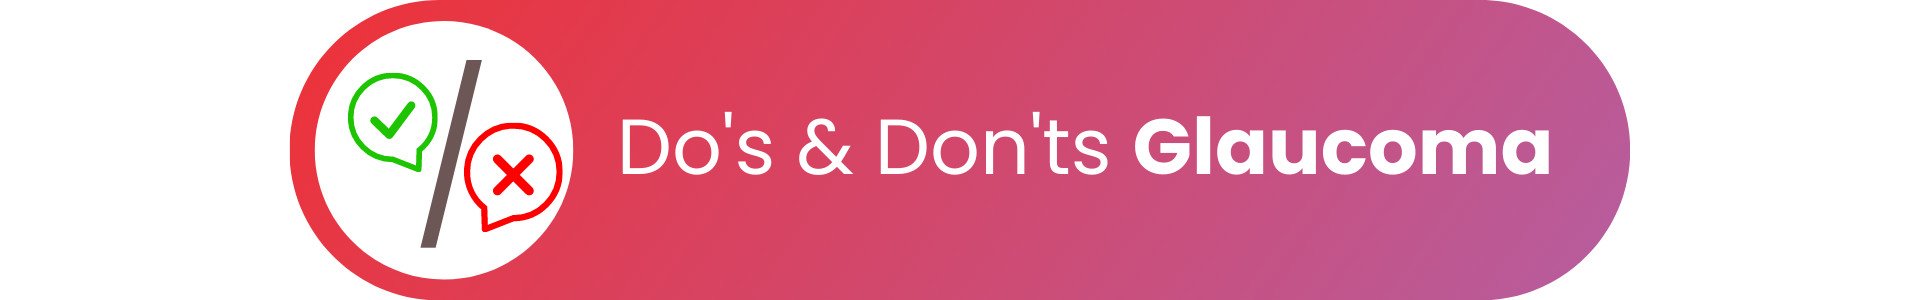
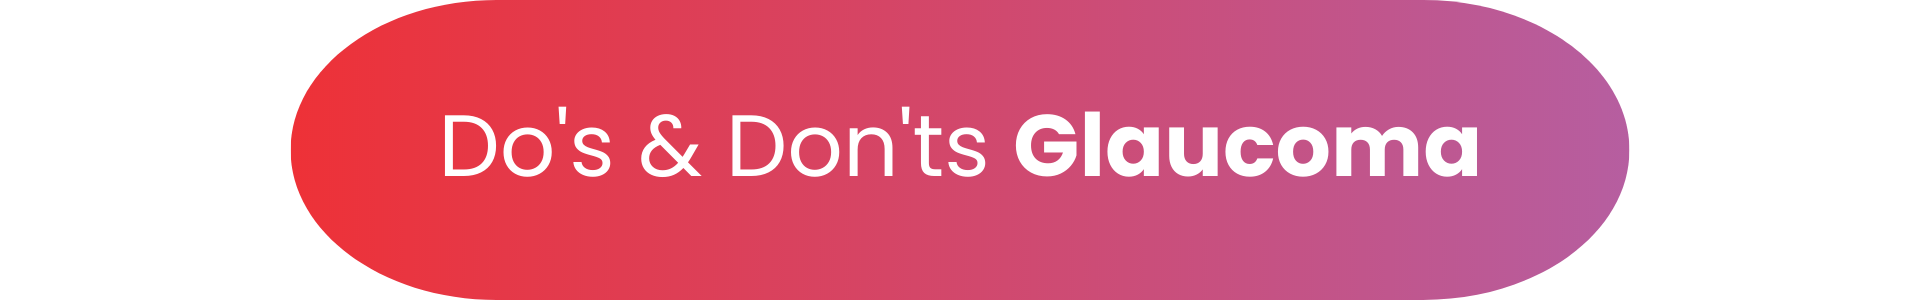
changes the ui of doctors page

Changed region(s): [[0.1562, 0.0, 0.8125, 1.0], [0.75, 0.69, 0.8438, 1.0], [0.75, 0.0, 0.8438, 0.3]]

diff --git a/resources/views/home.blade.php b/resources/views/home.blade.php
@@ -7,6 +7,7 @@
     <meta name="viewport" content="width=device-width, initial-scale=1.0">
     <link href="https://cdn.jsdelivr.net/npm/bootstrap@4.6.2/dist/css/bootstrap.min.css" rel="stylesheet" crossorigin="anonymous">
     <link rel="stylesheet" href="https://use.fontawesome.com/releases/v5.8.2/css/all.css" crossorigin="anonymous">
+
     <link rel="stylesheet" href="{{asset('css/qrstyle.css')}}">  
     <link href="{{asset('css/video-js.min.css')}}" rel="stylesheet">
     <link href="{{asset('css/index.css')}}" rel="stylesheet">
@@ -14,6 +15,24 @@
     <title>Qrcode</title>
 
     <style>
+
+        html{
+            overflow: hidden;
+        }
+
+        body {
+            overflow: hidden;
+        }
+        .btn {
+            /* filter: drop-shadow(0 5px 0 #15111a);    */
+            filter: drop-shadow(0 5px 0 #585161);   
+        }
+
+        .btn:active {
+            filter: drop-shadow(0 0 0 #585161);
+            transform: translate(0, 5px);
+            }
+
         @import  url('https://fonts.googleapis.com/css2?family=Questrial&display=swap');
         .main-container{
             background-image: url('https://edumedc.b-cdn.net/pm/brivex/background-image.png');
@@ -34,6 +53,9 @@
             width: 800px;
             height: 450px;
         }
+
+
+
     </style>
 </head>
     <style>
@@ -53,73 +75,152 @@
 
         .video-btn,
         .pdf-btn{
-            max-width: 300px;
+            width: 250px;
         }
 
         .profile-container{
-            /* border: 1px solid #1d1d1b; */
-            border:none;
-            background: #ed3237;
+            border: 5px solid #ed3237;
+            /* border:none; */
+            /* background: #ed3237; */
             width: 150px;
-            height: 150px;
-            border-radius: 50%;
-            padding: 12px;
+            height: 200px;
+            border-radius: 10px;
+            /* padding: 12px; */
         }
 
         .profile-container img{
-            border-radius: 50%;
+            /* border-radius: 50%; */
             width: 100%;
             height: 100%;
             box-shadow: rgba(0, 0, 0, 0.15) 0px 5px 15px 0px;
         }
 
-        .profile-details .profile-name{
-            color: #1d1d1b;
-            font-family: 'Questrial', sans-serif;
-            font-size: 15px;
-            font-weight: 700;
-        }
+        .profile-details .profile-name {
+                color: #0c0433;
+                font-family: 'Questrial', sans-serif;
+                font-size: 15px;
+                font-weight: bolder;
+                margin-bottom: 15px;
+            }
 
-        .profile-details .profile-designation {
-            font-family: 'Questrial', sans-serif;
-            font-size: 15px;
-            color: #1d1d1b;
-            font-weight: 500;
-            margin-bottom: 5px;
-        }
+            .profile-details .profile-designation {
+                font-family: 'Montserrat', sans-serif;
+                font-size: 15px;
+                color: #1d1d1b;
+                font-weight: 500;
+                margin-bottom: 15px;
+            }
 
         img.logo-img.img-fluid {
             height: 100px;
         }
+
+        .btn-secondary {
+            color: #fff;
+            background-color: #d53944; /* Fallback color for older browsers that don't support gradients */
+            background-image: linear-gradient(to bottom right, #d53944, #eb878b);
+            /* border-color: #d0486d; */
+            border: none;
+        }
+
+        .btn-secondary:hover {
+            color: #fff;
+            background-color: #1cb29c;
+            border-color: #1cb29c;
+        }
+
+        .logo-cover.mx-auto {
+            border: 1px solid #fff;
+            display: inline-block;
+            padding: 5px;
+            border-radius: 5px;
+            margin: 2px;
+            max-width:150px;
+            background: aliceblue;
+        }
+
+        p.profile-designation {
+            font-weight: 900;
+            color: #a78b8b;
+        }
+
+        .profile-designation i.fa {
+            margin-right: 10px;
+            color: #d9415d;
+        }
+
+        img {
+            vertical-align: middle;
+            /* height: auto; */
+            width: 100%;
+            border: 0;
+        }
+
+        @media only screen and (max-width:767px){
+            .main-container{
+                background-image: url('/assets/images/qr_code_mobile.jpg');
+            }
+
+            p.profile-designation {
+                color: #fff;
+                margin-bottom:0px;
+            }
+
+            .video-btn, .pdf-btn {
+                width: 270px;
+            }
+        }
+
+        @media only screen and (max-width:700px){
+            .profile-details .profile-name {
+                margin-bottom: 5px;
+            }
+
+            .profile-details .profile-designation {
+                    margin-bottom: 5px;
+                }
+        }
     </style>
     <div class=" main-container d-flex vh-100 justify-content-center align-items-center">
         <div class="row">
-            <div class="col-12 col-md-10 mx-auto text-center">
-                <div class="  mx-auto">
+            <div class="col-12  mx-auto text-center">
+                <div class="logo-cover  mx-auto">
                     <img src="{{ asset('assets/images/instareel.png') }}" class="logo-img img-fluid" name="logo-img" /> 
                 </div>
+                <p class="profile-designation">{{ $doctor->lastname }} </p>
                 <div class="profile-container  mx-auto">
                     <img src="{{ asset('logos/'.$doctor->logo) }}" class="doctor-img img-fluid" name="doctor-img" /> 
                 </div>
-                <div class="profile-details text-center mt-2">
-                    <h4 class="profile-name">Dr. {{ $doctor->firstname }} </h4>
+     
+                <div class="profile-details text-left d-inline-block mt-2">
+                    <h4 class="profile-name text-center">Dr. {{ $doctor->firstname }} </h4>
 
-                    <p class="profile-designation">{{ $doctor->lastname }} </p>
-                    <p class="profile-designation">{{ $doctor->contacno }} , {{ $doctor->city }} </p>
+                    
+                    <p class="profile-designation"><i class="fa fa-phone" aria-hidden="true"></i> {{ $doctor->contacno }} </p>
+                    <p class="profile-designation"><i class="fa fa-map-marker"></i> {{ $doctor->city }} </p>
+                    <p class="profile-designation"><i class="fa fa-envelope"></i> {{ $doctor->email }} </p>
                     {{-- <p class="profile-designation">{{ $doctor->contacno }} , {{ $doctor->city }} </p> --}}
                 </div>
-                <h4 class="mt-2">Click below to view more information on:</h4>
+                {{-- <h4 class="mt-2">Click below to view more information on:</h4> --}}
                 
                 <div class="p-1">
-                    <button class="btn video-btn">
-                        <img src="{{ asset('assets/images/dos.png') }}" data-toggle="modal" data-target="#VideoLanguageModal" class="img-fluid" alt="">
+                    <button class="btn video-btn text-center  btn-secondary rounded-pill mb-2" data-toggle="modal" data-target="#VideoLanguageModal" class="" alt="">
+                       Do's And Don't Glaucoma
                     </button>
-                    <a href="https://edumedc.b-cdn.net/pm/brivex/PCS02722037_Brivex-Ajanta.pdf" class="btn pdf-btn" target="_blank">
-                        <img src="{{ asset('assets/images/symtons.png') }}" class="img-fluid" alt="">
+
+                    {{-- <button class="btn video-btn">
+                        <img src="{{ asset('assets/images/dos.png') }}" data-toggle="modal" data-target="#VideoLanguageModal" class="" alt="">
+                    </button> --}}
+
+                    {{-- <a href="https://edumedc.b-cdn.net/pm/brivex/PCS02722037_Brivex-Ajanta.pdf" class="btn pdf-btn" target="_blank">
+                        <img src="{{ asset('assets/images/symtons.png') }}" class="" alt="">
+                    </a> --}}
+                    <a href="https://edumedc.b-cdn.net/pm/brivex/PCS02722037_Brivex-Ajanta.pdf" class="btn pdf-btn text-center  btn-secondary rounded-pill mb-2" target="_blank">
+                  Symtoms of Glaucoma
                     </a>
                 </div>
-                <h4 class="mt-2">From Makers of</h4>
-                <img src="{{ asset('assets/images/instareel.png') }}" class="img-fluid mt-2" alt="" style="max-width:150px;">
+                {{-- <h4 class="mt-2">From Makers of</h4> --}}
+                {{-- <img src="{{ asset('assets/images/instareel.png') }}" class="img-fluid mt-2" alt="" style="max-width:150px;"> --}}
             </div>
         </div>
     </div>

diff --git a/resources/views/auth/login.blade.php b/resources/views/auth/login.blade.php
@@ -9,6 +9,11 @@ body {
 
 }
 
+h1.h3.mb-3.fw-normal {
+    color: #ed3237;
+    font-weight: bold;
+}
+
 body.text-center {
     /* background: #71bbd9; */
     display: flex;
@@ -34,7 +39,7 @@ body.text-center {
     min-width: 500px;
     align-items: center;
     /* background: rgba(255,255,255,0.3); */
-    background: rgba(113,187,217,0.5);
+    background: rgba(113,187,217,0.7);
     padding: 20px;
     border-radius:20px;
     /* background: #71bbd9; */
@@ -46,6 +51,12 @@ a.logo {
     top: 10px;
 }
 
+
+@media screen and (max-width: 768px){
+    body.text-center {
+    background-image: url('/assets/images/qr_code_log_mobile.jpg');
+}
+}
 
 @media screen and (max-width: 540px) {   
      main.form-signin {
